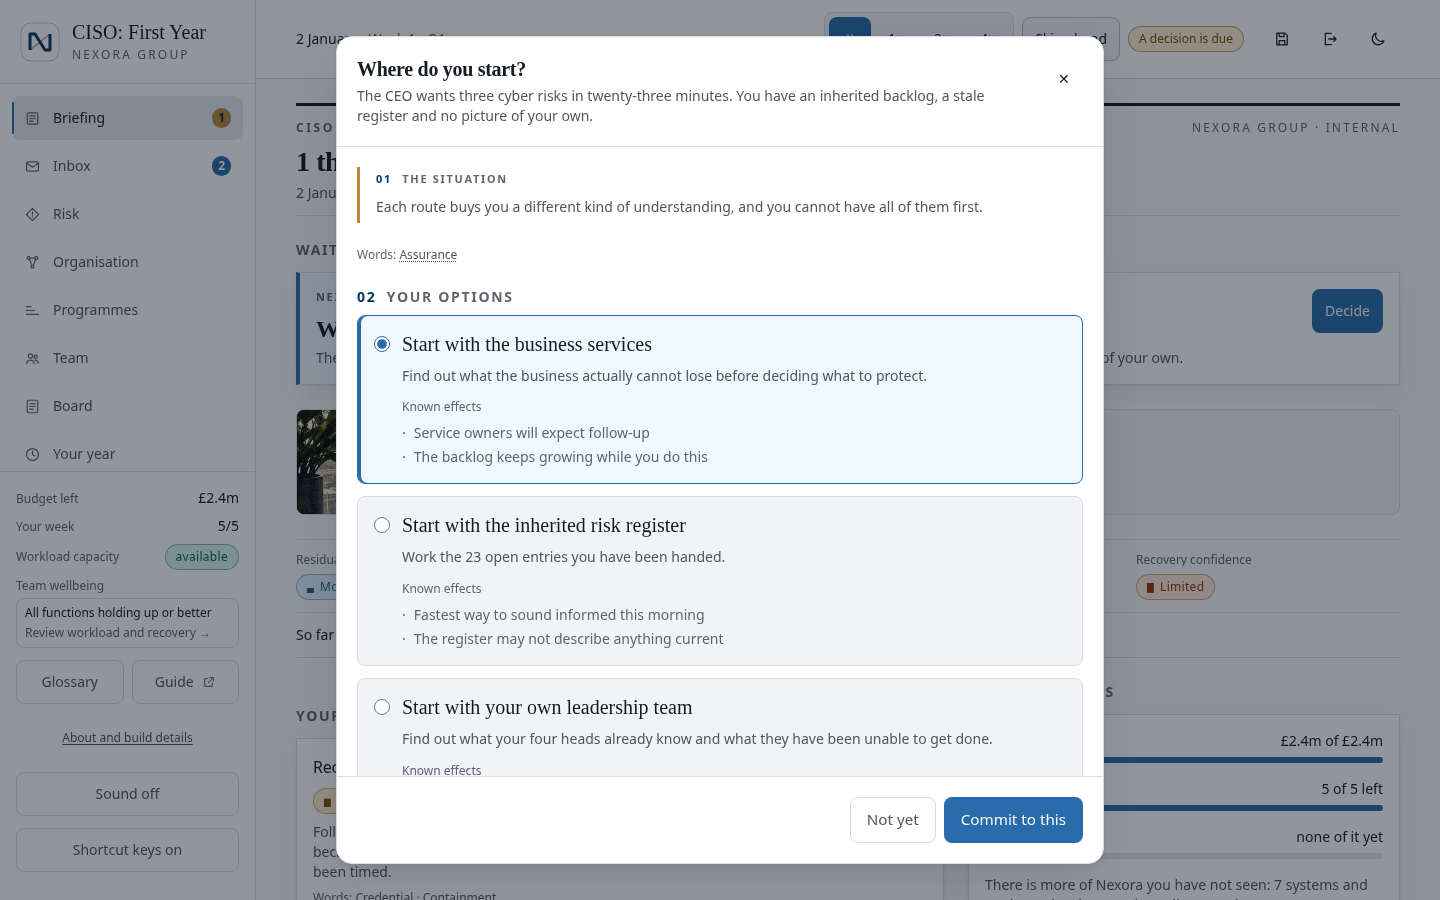
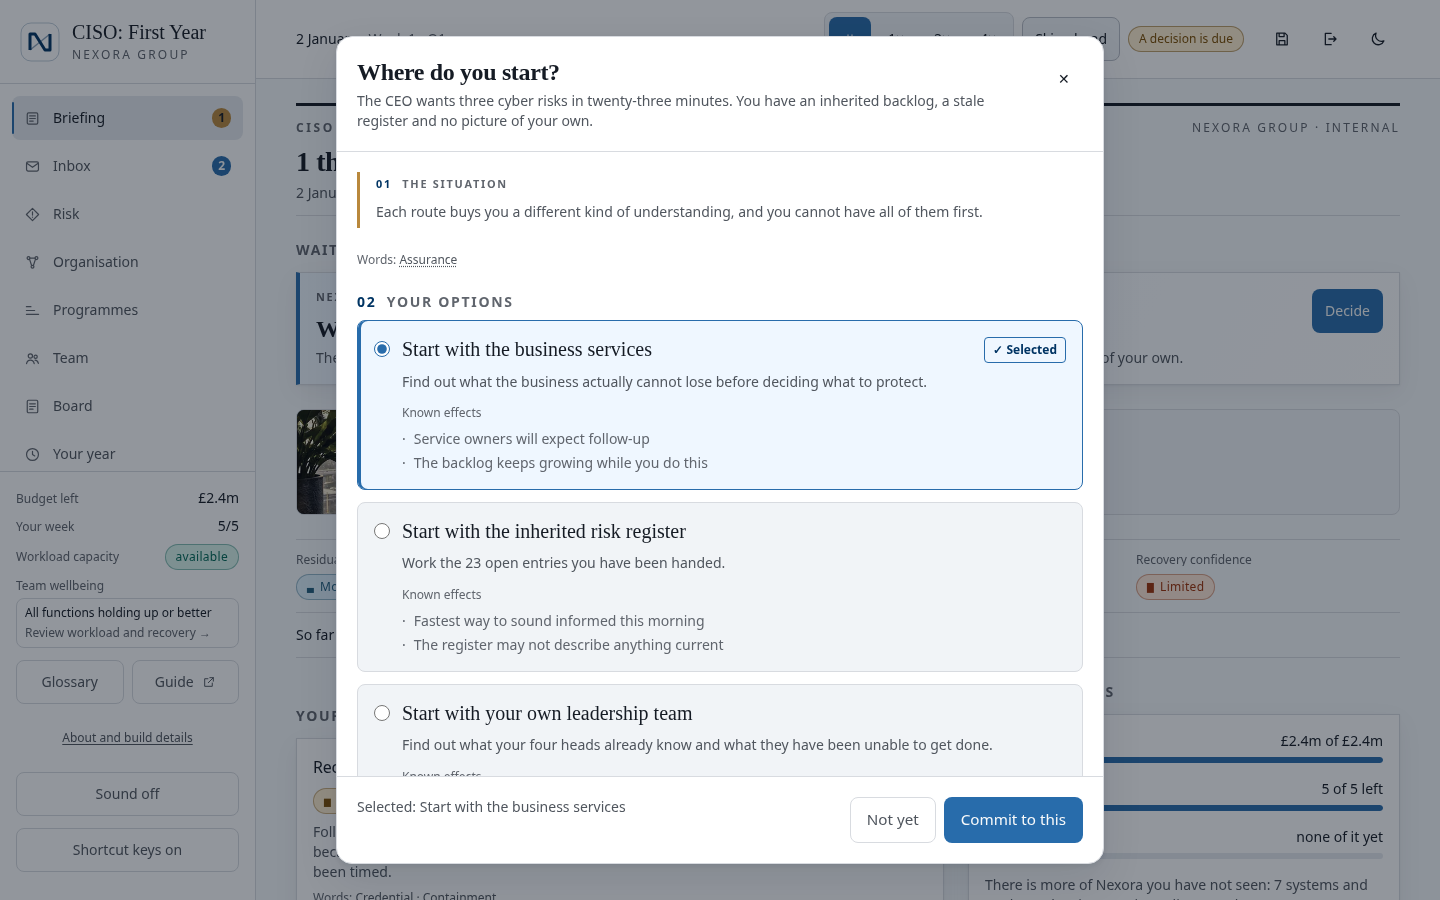
Clarify decision papers and incident response hierarchy

diff --git a/src/components/decisions/DecisionDialog.tsx b/src/components/decisions/DecisionDialog.tsx
@@ -67,9 +67,11 @@ export function DecisionDialog({ decisionId, onClose }: { decisionId: string; on
       onClose={onClose}
       size="lg"
       title={decision.title}
+      titleClassName="text-2xl"
       description={decision.description}
       footer={
         <>
+          <span className="mr-auto w-full text-sm text-ink-muted sm:w-auto" aria-live="polite">{selected ? `Selected: ${selected.label}` : 'Choose an option below'}</span>
           <Button variant="quiet" onClick={onClose}>
             Not yet
           </Button>
@@ -90,6 +92,13 @@ export function DecisionDialog({ decisionId, onClose }: { decisionId: string; on
       }
     >
       <div className="decision-paper space-y-6">
+        {decision.daysRemaining !== undefined && (
+          <p className={cn('decision-deadline rounded-lg border border-line p-3 text-sm font-medium', decision.urgent ? 'text-band-high' : 'text-ink-muted')}>
+            {decision.daysRemaining <= 0
+              ? 'This is due today. If you do not decide, the organisation will decide for you.'
+              : `Due in ${decision.daysRemaining} day${decision.daysRemaining === 1 ? '' : 's'}.`}
+          </p>
+        )}
         <section aria-labelledby="decision-context" className="decision-context">
           <h3 id="decision-context" className="document-kicker mb-2"><span aria-hidden="true" className="paper-number">01</span>The situation</h3>
           <p className="text-sm leading-relaxed text-ink-muted text-pretty">
@@ -100,13 +109,7 @@ export function DecisionDialog({ decisionId, onClose }: { decisionId: string; on
           text={`${decision.title} ${decision.description} ${decision.context} ${decision.options.map((o) => `${o.label} ${o.description}`).join(' ')}`}
         />
 
-        {decision.daysRemaining !== undefined && (
-          <p className={cn('text-sm', decision.urgent ? 'text-band-high' : 'text-ink-muted')}>
-            {decision.daysRemaining <= 0
-              ? 'This is due today. If you do not decide, the organisation will decide for you.'
-              : `Due in ${decision.daysRemaining} day${decision.daysRemaining === 1 ? '' : 's'}.`}
-          </p>
-        )}
+
 
         <fieldset className="space-y-3">
           <legend className="mb-2 text-sm font-semibold uppercase tracking-[0.12em] text-ink-faint">
@@ -116,8 +119,9 @@ export function DecisionDialog({ decisionId, onClose }: { decisionId: string; on
           {decision.options.map((option) => (
             <label
               key={option.id}
+              data-selected={optionId === option.id}
               className={cn(
-                'decision-option flex cursor-pointer gap-3 rounded-lg border p-4 transition-colors',
+                'decision-option flex cursor-pointer items-start gap-3 rounded-lg border p-3 transition-colors sm:p-4',
                 optionId === option.id ? 'border-accent bg-accent-soft/40' : 'border-line bg-surface-2 hover:border-line-strong',
                 !option.affordable && 'opacity-60',
               )}
@@ -133,20 +137,19 @@ export function DecisionDialog({ decisionId, onClose }: { decisionId: string; on
                 style={{ minHeight: 0 }}
               />
               <span className="min-w-0 flex-1">
-                <span className="block font-display text-xl leading-tight text-balance">{option.label}</span>
+                <span className="flex flex-wrap items-start justify-between gap-2"><span className="font-display text-xl leading-tight text-balance">{option.label}</span>{optionId === option.id && <span className="rounded border border-accent px-2 py-1 text-xs font-semibold text-accent-ink" aria-hidden="true">✓ Selected</span>}</span>
                 <span className="mt-2 block text-sm leading-relaxed text-ink-muted text-pretty">{option.description}</span>
-                {(option.budgetCost !== undefined || option.focusCost !== undefined) && <span className="decision-costs mt-3 flex flex-wrap items-baseline gap-x-3 gap-y-1 border-y border-line py-2">
-                  <span className="text-xs font-medium text-ink-faint">Cost</span>
+                {(option.budgetCost !== undefined || option.focusCost !== undefined) && <span className="decision-costs mt-3 grid grid-cols-2 gap-3 border-y border-line py-2">
                   {/* A price the organisation already knows is not part of the
                       uncertainty. "Expensive" told the player nothing they could
                       weigh against the budget bar on the same screen. */}
                   {option.budgetCost !== undefined && (
-                    <span className="text-sm tabular-nums text-ink-faint">{money(option.budgetCost)}</span>
+                    <span className="text-sm tabular-nums"><span className="mb-1 block text-xs text-ink-faint">Budget cost</span>{money(option.budgetCost)}</span>
                   )}
                   {/* Attention is spent when the option is taken; two options
                       spent it without their text saying so. */}
                   {option.focusCost !== undefined && (
-                    <span className="text-sm tabular-nums text-ink-faint">{option.focusCost} attention</span>
+                    <span className="text-sm tabular-nums"><span className="mb-1 block text-xs text-ink-faint">Attention cost</span>{option.focusCost} attention</span>
                   )}
                 </span>}
                 {option.visibleKnownEffects.length > 0 && (

diff --git a/src/components/game/IncidentCommand.tsx b/src/components/game/IncidentCommand.tsx
@@ -75,29 +75,12 @@ export function IncidentCommand() {
           )}
         </div>
 
-        {incident.awaiting.length > 0 && (
-          <div className="rounded-lg border border-band-severe/50 bg-surface p-3">
-            <p className="text-sm font-medium">
-              {plural(incident.awaiting.length, 'decision', 'decisions')} waiting on you
-            </p>
-            <ul className="mt-2 flex flex-wrap gap-2">
-              {incident.awaiting.map((item) => (
-                <li key={item.decisionId}>
-                  <Button variant="primary" size="sm" onClick={() => setUi({ openDecisionId: item.decisionId })}>
-                    {item.title}
-                  </Button>
-                </li>
-              ))}
-            </ul>
-          </div>
-        )}
-
         {/*
           The operational state, in words. Containment is a 0..1 number
           internally and never appears as one: the player is told where the
           response has got to, not given a percentage to optimise.
         */}
-        <div className="grid gap-3 border-y border-line py-3 text-sm sm:grid-cols-3">
+        <div className="incident-situation grid gap-3 border-y border-line py-3 text-sm sm:grid-cols-3">
           <span className="text-ink-muted">
             <span className="mb-1 block text-xs text-ink-faint">Containment:</span> {incident.containmentLabel}
           </span>
@@ -111,9 +94,28 @@ export function IncidentCommand() {
           )}
         </div>
 
+        {incident.awaiting.length > 0 && (
+          <div className="incident-actions rounded-lg border border-band-severe/50 bg-surface p-3">
+            <p className="text-sm font-medium">
+              {plural(incident.awaiting.length, 'decision', 'decisions')} waiting on you
+            </p>
+            <ul className="mt-2 grid gap-2 sm:grid-cols-2">
+              {incident.awaiting.map((item) => (
+                <li key={item.decisionId}>
+                  <Button variant="primary" size="sm" className="w-full justify-start text-left" onClick={() => setUi({ openDecisionId: item.decisionId })}>
+                    {item.title}
+                  </Button>
+                </li>
+              ))}
+            </ul>
+          </div>
+        )}
+
+
+
         {incident.timeline.length > 0 && (
           <div>
-            <p className="text-xs font-medium text-ink-faint">What you have been told</p>
+            <p className="text-xs font-medium text-ink-faint">Latest update</p>
             <ol className="response-timeline mt-3 text-sm">
               {incident.timeline.slice(-1).map((entry, position) => (
                 <li key={`${entry.day}-${position}`} className="flex gap-3 text-pretty">

diff --git a/src/app/App.tsx b/src/app/App.tsx
@@ -14,7 +14,6 @@ import { OrganisationScreen } from '@/screens/organisation/OrganisationScreen'
 import { ProgrammesScreen } from '@/screens/programmes/ProgrammesScreen'
 import { TeamScreen } from '@/screens/team/TeamScreen'
 import { BoardScreen } from '@/screens/board/BoardScreen'
-import { DecisionDialog } from '@/components/decisions/DecisionDialog'
 import { Glossary } from '@/components/game/Glossary'
 import { Toasts } from '@/components/game/Toasts'
 import { CampaignFeedback } from '@/components/game/CampaignFeedback'
@@ -23,12 +22,14 @@ import { Onboarding } from '@/components/game/Onboarding'
 import { useGameClock } from '@/components/game/useGameClock'
 import { useKeyboardShortcuts } from '@/app/useKeyboardShortcuts'
 import { useGameStore } from '@/store/game-store'
-import { Button, Card, CardBody, LoadingState } from '@/components/ui/primitives'
+import { Button, Card, CardBody, Dialog, LoadingState } from '@/components/ui/primitives'
 import { yearWord } from '@/game/time'
 
 // The year view is opened a few times a year and read once at the close, so
 // it stays out of what the first screen waits for. It is fetched in the
 // background once a campaign is open, so the close never waits on it.
+const loadDecision = () => import('@/components/decisions/DecisionDialog')
+const DecisionDialog = lazy(() => loadDecision().then((m) => ({ default: m.DecisionDialog })))
 const loadDebrief = () => import('@/screens/debrief/DebriefScreen')
 const DebriefScreen = lazy(() => loadDebrief().then((m) => ({ default: m.DebriefScreen })))
 
@@ -45,7 +46,10 @@ export function App() {
 
   const inCampaign = state !== null
   useEffect(() => {
-    if (inCampaign) void loadDebrief().catch(() => undefined)
+    if (inCampaign) {
+      void loadDebrief().catch(() => undefined)
+      void loadDecision().catch(() => undefined)
+    }
   }, [inCampaign])
 
   // An incident subtly raises the temperature of the whole shell (plan §30).
@@ -121,7 +125,11 @@ export function App() {
         </ScreenBoundary>
       </AppShell>
       {openDecisionId && (
-        <DecisionDialog decisionId={openDecisionId} onClose={() => setUi({ openDecisionId: undefined })} />
+        <ScreenBoundary onLeave={() => setUi({ openDecisionId: undefined })} leaveLabel="Back to campaign">
+          <Suspense fallback={<Dialog open title="Opening decision…" onClose={() => setUi({ openDecisionId: undefined })}><LoadingState label="Opening decision…" /></Dialog>}>
+            <DecisionDialog decisionId={openDecisionId} onClose={() => setUi({ openDecisionId: undefined })} />
+          </Suspense>
+        </ScreenBoundary>
       )}
       <Glossary />
       <Toasts />

diff --git a/tests/e2e/art.spec.ts b/tests/e2e/art.spec.ts
@@ -42,7 +42,7 @@ test('an incident illustration loads beside the factual response journal', async
   const illustration = page.locator('.incident-art img').first()
   await illustration.scrollIntoViewIfNeeded()
   await expect.poll(() => illustration.evaluate((image: HTMLImageElement) => image.naturalWidth)).toBeGreaterThan(0)
-  await expect(page.getByText('What you have been told', { exact: true })).toBeVisible()
+  await expect(page.getByText('Latest update', { exact: true })).toBeVisible()
   const journal = page.locator('[role=region][aria-labelledby=incident-command]')
   const history = journal.getByRole('button', { name: /^Earlier updates/ })
   await expect(history).toHaveAttribute('aria-expanded', 'false')
@@ -51,8 +51,12 @@ test('an incident illustration loads beside the factual response journal', async
   await history.click()
   const response = journal.getByRole('button', { name: 'Incident command', exact: true })
   expect(await response.evaluate((element) => Boolean(element.compareDocumentPosition(document.querySelector('.response-timeline')!) & Node.DOCUMENT_POSITION_FOLLOWING))).toBe(true)
+  expect(await page.locator('.incident-situation').evaluate((element) => Boolean(element.compareDocumentPosition(document.querySelector('.incident-actions')!) & Node.DOCUMENT_POSITION_FOLLOWING))).toBe(true)
   await response.click()
-  await expect(page.getByRole('dialog', { name: 'Incident command', exact: true })).toBeVisible()
+  const decision = page.getByRole('dialog', { name: 'Incident command', exact: true })
+  await expect(decision).toBeVisible()
+  await decision.locator('input[type="radio"]:not([disabled])').first().check()
+  await expect(decision.getByRole('button', { name: 'Commit to this', exact: true })).toBeInViewport()
   await page.getByRole('dialog').getByRole('button', { name: 'Close', exact: true }).click()
   await expectNoHorizontalScroll(page)
 })

diff --git a/tests/e2e/campaign.spec.ts b/tests/e2e/campaign.spec.ts
@@ -306,7 +306,7 @@ test.describe('a first year at Nexora', () => {
     await decide.focus()
     await page.keyboard.press('Enter')
     const dialog = page.getByRole('dialog')
-    await expect(dialog).toBeVisible()
+    await expect(dialog.getByRole('radio').first()).toBeVisible()
     expect((await focused()).inDialog, 'focus did not move into the dialog').toBe(true)
 
     for (let i = 0; i < 5 && (await focused()).tag !== 'INPUT'; i += 1) await page.keyboard.press('Tab')
@@ -382,7 +382,7 @@ test.describe('a first year at Nexora', () => {
     if (await got.isVisible().catch(() => false)) await got.click()
     await page.getByRole('button', { name: /^Decide: / }).first().click()
     const dialog = page.getByRole('dialog')
-    await expect(dialog).toBeVisible()
+    await expect(dialog.getByRole('radio').first()).toBeVisible()
     // The panel rises into place; measure it once it has arrived.
     await dialog.evaluate((el) => Promise.all(el.getAnimations({ subtree: true }).map((a) => a.finished)))
     const viewport = page.viewportSize()!
@@ -691,6 +691,11 @@ test.describe('a first year at Nexora', () => {
         // itself "Record why first" rather than sitting dead.
         const why = page.getByRole('button', { name: /Record why first/ }).first()
         if (await why.isVisible().catch(() => false)) {
+          await why.focus()
+          await why.press('Enter')
+          const reason = page.locator('#decision-why-reasons button').first()
+          await expect(reason).toBeFocused()
+          await expect(reason).toBeInViewport()
           await page.getByRole('button', { name: 'More evidence is required' }).first().click()
         }
         const commit = page.getByRole('button', { name: /Commit to this/ }).first()

diff --git a/src/components/ui/primitives.tsx b/src/components/ui/primitives.tsx
@@ -222,6 +222,7 @@ export function Dialog({
   children,
   footer,
   size = 'md',
+  titleClassName,
 }: {
   open: boolean
   onClose: () => void
@@ -230,6 +231,7 @@ export function Dialog({
   children: ReactNode
   footer?: ReactNode
   size?: 'md' | 'lg'
+  titleClassName?: string
 }) {
   const titleId = useId()
   const descriptionId = useId()
@@ -318,7 +320,7 @@ export function Dialog({
       >
         <div className="flex items-start justify-between gap-4 border-b border-line p-4 sm:p-5">
           <div>
-            <h2 id={titleId} className="font-display text-xl leading-tight text-balance">{title}</h2>
+            <h2 id={titleId} className={cn('font-display leading-tight text-balance', titleClassName ?? 'text-xl')}>{title}</h2>
             {description && (
               <p id={descriptionId} className="mt-1 text-sm text-ink-muted text-pretty">{description}</p>
             )}

diff --git a/tests/e2e/campaign-feedback.spec.ts b/tests/e2e/campaign-feedback.spec.ts
@@ -8,6 +8,11 @@ test('a committed choice leaves a readable, dismissible receipt', async ({ page 
   await page.getByRole('button', { name: /^Decide: / }).first().click()
   const dialog = page.getByRole('dialog')
   await dialog.getByRole('radio').first().check()
+  await expect(dialog.locator('.decision-option[data-selected="true"]')).toHaveCount(1)
+  await expect(dialog.locator('.decision-option[data-selected="true"]')).toContainText('Selected')
+  await expect(dialog.getByText(/^Selected:/)).toBeInViewport()
+  await expect(dialog.getByRole('button', { name: /^(Record why first|Commit to this)$/ })).toBeInViewport()
+  await expectNoHorizontalScroll(page)
   await dialog.getByRole('button', { name: 'More evidence is required' }).click()
   await dialog.getByRole('button', { name: 'Commit to this', exact: true }).click()
   await expect(dialog).toBeHidden()

diff --git a/tests/e2e/accessibility.spec.ts b/tests/e2e/accessibility.spec.ts
@@ -149,7 +149,7 @@ test.describe('accessibility', () => {
   test('the decision dialog is accessible', async ({ page }) => {
     await startCampaign(page, 'a11y-dialog')
     await page.getByRole('button', { name: /^Decide: / }).first().click()
-    await expect(page.getByRole('dialog')).toBeVisible()
+    await expect(page.getByRole('dialog').getByRole('radio').first()).toBeVisible()
     await settle(page)
     const results = await new AxeBuilder({ page })
       .withTags(['wcag2a', 'wcag2aa', 'wcag21a', 'wcag21aa'])

diff --git a/README.md b/README.md
@@ -36,6 +36,12 @@ beginning, middle and end of the year. These are a chronological sample, not
 a score or a claim about which choices caused the outcome. The full timeline,
 judgement log, sharing and printable review remain available.
 
+Decision papers lead with the deadline, label budget and attention costs, and
+mark the chosen option in words. The fixed footer repeats the selected option
+and keeps rationale and commitment reachable on phones. The decision UI preloads
+when play begins, with a loading dialog if needed. Incidents show current public
+status, response choices, then the latest update; earlier history stays expandable.
+
 Active programme status has a consistent position below its title and sponsor.
 Phone risk tabs fade at edges with hidden tabs, matching the directional cue;
 the fade never intercepts input. Inbox return and branding share one phone row,

diff --git a/AGENTS.md b/AGENTS.md
@@ -32,6 +32,14 @@ changes.
 
 ## Artwork
 
+- Decision papers put deadlines before context, label budget/attention costs
+  separately and show selection in words as well as colour. Keep the fixed
+  footer and reachable rationale route; preserve affordability and hidden effects.
+- Preload decision UI when play begins, with an accessible loading dialog and
+  recoverable failure. Keep the decision chunk out of the title download budget.
+- Incidents show public operational status before response controls, then the
+  latest recorded update. Keep earlier history expandable and controls reachable.
+
 - Active programme status occupies a stable row beneath its title/sponsor.
   Risk-tab edge fades follow the same overflow state as the cue, use theme
   colours and never intercept input. Keep keyboard focus and final tabs visible.

diff --git a/docs/PLAYER_GUIDE.md b/docs/PLAYER_GUIDE.md
@@ -592,6 +592,12 @@ portrait cannot load.
 
 ### Reading and comparing work
 
+Decision papers show the deadline before the situation, with separate budget and
+attention costs under each option. The selected option is marked and repeated
+beside the fixed action buttons. If a reason is required, the footer takes you to
+the reasons before you commit. During an incident, read current status first,
+then choose a response and review the latest update; earlier updates can expand.
+
 Programme status sits below its title and sponsor. On phones, fades mark the
 edges of the risk tabs with more content outside the view. The Inbox puts its
 return action and Nexora mark on one line; another return action remains below

diff --git a/CHANGELOG.md b/CHANGELOG.md
@@ -10,6 +10,9 @@ The game as it stands after the roadmap's engineering phases
 (`docs/ROADMAP.md`, Phases 0–7). Version 0.1.0 until the owner tags a release.
 
 ### Playing
+- Decision papers foreground deadlines, separate resource costs and identify
+  the selected option in the paper and fixed footer. Decision UI preloads during
+  play. Incident status precedes response choices and the latest recorded update.
 - Programme status stays beneath the title and sponsor across screen sizes.
   Phone risk tabs have theme-aware edge fades that follow actual overflow.
   Inbox return and branding share a compact phone letterhead row.
